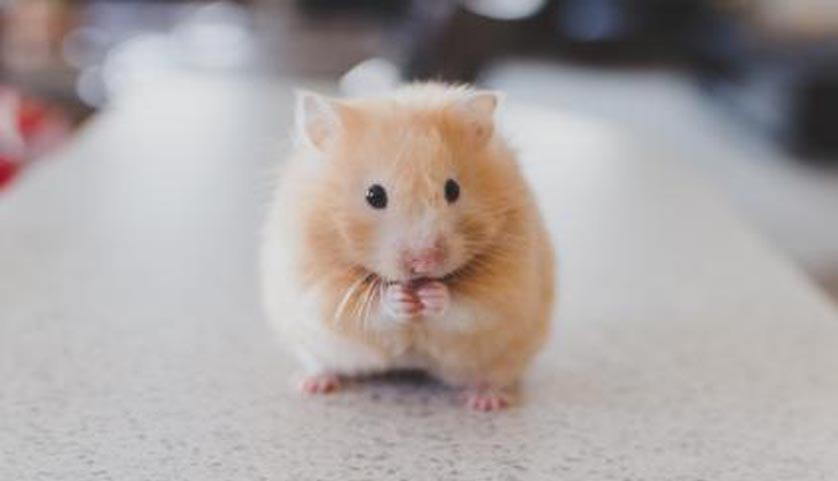
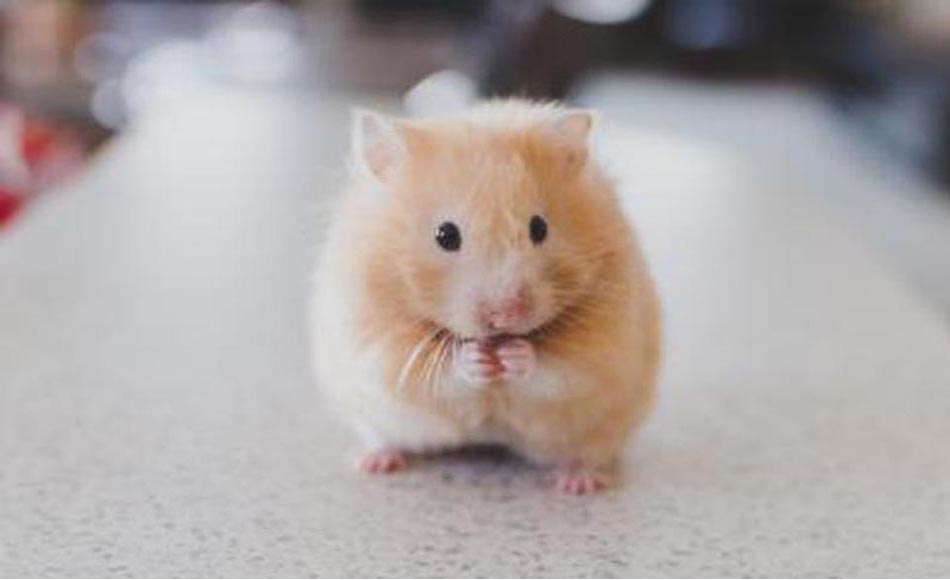
Allignment in the hero element fixed

diff --git a/html/portfolio.html b/html/portfolio.html
@@ -37,14 +37,14 @@
           </div>
           <div class="grid_4">
             <img src="../img/cat.jpg" alt="" />
-            <h1>Training 1</h1>
+            <h1>Training 2</h1>
             <p>
               Lorem ipsum dolor sit amet, consectetur adipisicing elit, sed do eiusmod tempor incididunt ut labore et dolore magna aliqua. Ut enim ad minim veniam, quis nostrud exercitation ullamco laboris nisi ut aliquip ex ea commodo consequat. Duis aute irure dolor in reprehenderit in voluptate velit esse cillum dolore eu fugiat nulla pariatur. Excepteur sint occaecat cupidatat non proident, sunt in culpa qui officia deserunt mollit anim id est laborum.
             </p>
           </div>
           <div class="grid_4">
             <img src="../img/cow.jpg" alt="" />
-            <h1>Training 1</h1>
+            <h1>Training 3</h1>
             <p>
               Lorem ipsum dolor sit amet, consectetur adipisicing elit, sed do eiusmod tempor incididunt ut labore et dolore magna aliqua. Ut enim ad minim veniam, quis nostrud exercitation ullamco laboris nisi ut aliquip ex ea commodo consequat. Duis aute irure dolor in reprehenderit in voluptate velit esse cillum dolore eu fugiat nulla pariatur. Excepteur sint occaecat cupidatat non proident, sunt in culpa qui officia deserunt mollit anim id est laborum.
             </p>
@@ -52,21 +52,21 @@
 
           <div class="grid_4">
             <img src="../img/duck.jpg" alt="" />
-            <h1>Training 1</h1>
+            <h1>Training 4</h1>
             <p>
               Lorem ipsum dolor sit amet, consectetur adipisicing elit, sed do eiusmod tempor incididunt ut labore et dolore magna aliqua. Ut enim ad minim veniam, quis nostrud exercitation ullamco laboris nisi ut aliquip ex ea commodo consequat. Duis aute irure dolor in reprehenderit in voluptate velit esse cillum dolore eu fugiat nulla pariatur. Excepteur sint occaecat cupidatat non proident, sunt in culpa qui officia deserunt mollit anim id est laborum.
             </p>
           </div>
           <div class="grid_4">
             <img src="../img/panda.jpg" alt="" />
-            <h1>Training 1</h1>
+            <h1>Training 5</h1>
             <p>
               Lorem ipsum dolor sit amet, consectetur adipisicing elit, sed do eiusmod tempor incididunt ut labore et dolore magna aliqua. Ut enim ad minim veniam, quis nostrud exercitation ullamco laboris nisi ut aliquip ex ea commodo consequat. Duis aute irure dolor in reprehenderit in voluptate velit esse cillum dolore eu fugiat nulla pariatur. Excepteur sint occaecat cupidatat non proident, sunt in culpa qui officia deserunt mollit anim id est laborum.
             </p>
           </div>
           <div class="grid_4">
             <img src="../img/parrot.jpg" alt="" />
-            <h1>Training 1</h1>
+            <h1>Training 6</h1>
             <p>
               Lorem ipsum dolor sit amet, consectetur adipisicing elit, sed do eiusmod tempor incididunt ut labore et dolore magna aliqua. Ut enim ad minim veniam, quis nostrud exercitation ullamco laboris nisi ut aliquip ex ea commodo consequat. Duis aute irure dolor in reprehenderit in voluptate velit esse cillum dolore eu fugiat nulla pariatur. Excepteur sint occaecat cupidatat non proident, sunt in culpa qui officia deserunt mollit anim id est laborum.
             </p>
@@ -78,47 +78,36 @@
             <div class="grid_4">
               <h3>Address</h3>
               <p>
-                Lorem ipsum dolor sit amet,
-              </p>
-              <p>
-                Lorem ipsum dolor sit amet,
-              </p>
-              <p>
-                Lorem ipsum dolor sit amet,
-              </p>
-              <p>
-                Lorem ipsum dolor sit amet,
+              Lorem ipsum dolor sit amet, consectetur adipisicing elit, sed do eiusmod tempor incididunt ut labore et dolore magna aliqua. Ut enim ad minim veniam, quis nostrud exercitation ullamco laboris nisi ut aliquip ex ea commodo consequat. Duis aute irure dolor in reprehenderit in voluptate velit esse cillum dolore eu fugiat nulla pariatur. Excepteur sint occaecat cupidatat non proident, sunt in culpa qui officia deserunt mollit anim id est laborum.
               </p>
             </div>
             <div class="grid_4">
               <h3>Social</h3>
               <p>
-                Lorem ipsum dolor sit amet,
+                <a href="#">Facebook</a>
               </p>
               <p>
-                Lorem ipsum dolor sit amet,
+                <a href="#">Twitter</a>
               </p>
               <p>
-                Lorem ipsum dolor sit amet,
+                <a href="#">Google+</a>
               </p>
               <p>
-                Lorem ipsum dolor sit amet,
+                <a href="#">Pintrest</a>
               </p>
             </div>
             <div class="grid_4">
               <h3>Recent Post</h3>
-              <p>
-                Lorem ipsum dolor sit amet,
-              </p>
-              <p>
-                Lorem ipsum dolor sit amet,
-              </p>
-              <p>
-                Lorem ipsum dolor sit amet,
-              </p>
-              <p>
-                Lorem ipsum dolor sit amet,
-              </p>
+              <ul>
+                <li><a href="">Lorem ipsum dolor sit amet</a></li>
+                <li><a href="">Lorem ipsum dolor sit amet</a></li>
+                <li><a href="">Lorem ipsum dolor sit amet</a></li>
+                <li><a href="">Lorem ipsum dolor sit amet</a></li>
+                <li><a href="">Lorem ipsum dolor sit amet</a></li>
+                <li><a href="">Lorem ipsum dolor sit amet</a></li>
+                <li><a href="">Lorem ipsum dolor sit amet</a></li>
+                <li><a href="">Lorem ipsum dolor sit amet</a></li>
+              </ul>
             </div>
           </div>
         </footer>

diff --git a/html/index.html b/html/index.html
@@ -54,27 +54,29 @@
         <!-- Hero element -->
         <div class="section">
 					<!-- <div class="container clearfix"> -->
-						<div class="heading-block center">
+						<div class="headingcenter">
 							<h2>Best behaviour and performance</h2>
-							<h6>Choose from a wide array of Options for your best matched Customizations</h6>
 						</div>
 						<div class="col_full">
 							  <img src="../img/hero.jpg" alt="hero" />
+                <h6>Choose from a wide array of Options for your best matched Customizations</h6>
 						</div>
           <!-- </div> -->
 				</div>
 
+
         <!-- Powerful insight and Advance store statistics -->
-        <div class="container clearfix">
+        <div class="container">
+          <!-- <div class="line"></div> -->
 
           <!-- add graph image here -->
-          <div class="grid_6">
+          <div class="grid_4">
             <div class="statistics-block">
               <img src="../img/graph.png" alt="graph" />
             </div>
           </div>
 
-          <div class="grid_6">
+          <div class="grid_8">
             <div class="statistics-block">
               <h3>Powerful insights to help grow your Pets.</h3>
               <span>Reports let you easily track and analyze your product sales, orders, and payments.</span>
@@ -87,7 +89,7 @@
           <div class="clear"></div>
           <div class="line"></div>
 
-          <div class="grid_6">
+          <div class="grid_8">
             <div class="statistics-block">
               <h3>Advanced performance statistics.</h3>
               <span>Benchmarking your website's performance helps you make great choices for your Pets.</span>
@@ -97,7 +99,7 @@
             <a href="#">Learn more →</a>
           </div>
 
-        <div class="grid_6">
+        <div class="grid_4">
           <div class="statistics-block">
             <img src="../img/piechart.png" alt="Pie Chart" />
           </div>
@@ -111,47 +113,36 @@
           <div class="grid_4">
             <h3>Address</h3>
             <p>
-              Lorem ipsum dolor sit amet,
-            </p>
-            <p>
-              Lorem ipsum dolor sit amet,
-            </p>
-            <p>
-              Lorem ipsum dolor sit amet,
-            </p>
-            <p>
-              Lorem ipsum dolor sit amet,
+            Lorem ipsum dolor sit amet, consectetur adipisicing elit, sed do eiusmod tempor incididunt ut labore et dolore magna aliqua. Ut enim ad minim veniam, quis nostrud exercitation ullamco laboris nisi ut aliquip ex ea commodo consequat. Duis aute irure dolor in reprehenderit in voluptate velit esse cillum dolore eu fugiat nulla pariatur. Excepteur sint occaecat cupidatat non proident, sunt in culpa qui officia deserunt mollit anim id est laborum.
             </p>
           </div>
           <div class="grid_4">
             <h3>Social</h3>
             <p>
-              Lorem ipsum dolor sit amet,
+              <a href="#">Facebook</a>
             </p>
             <p>
-              Lorem ipsum dolor sit amet,
+              <a href="#">Twitter</a>
             </p>
             <p>
-              Lorem ipsum dolor sit amet,
+              <a href="#">Google+</a>
             </p>
             <p>
-              Lorem ipsum dolor sit amet,
+              <a href="#">Pintrest</a>
             </p>
           </div>
           <div class="grid_4">
             <h3>Recent Post</h3>
-            <p>
-              Lorem ipsum dolor sit amet,
-            </p>
-            <p>
-              Lorem ipsum dolor sit amet,
-            </p>
-            <p>
-              Lorem ipsum dolor sit amet,
-            </p>
-            <p>
-              Lorem ipsum dolor sit amet,
-            </p>
+            <ul>
+              <li><a href="">Lorem ipsum dolor sit amet</a></li>
+              <li><a href="">Lorem ipsum dolor sit amet</a></li>
+              <li><a href="">Lorem ipsum dolor sit amet</a></li>
+              <li><a href="">Lorem ipsum dolor sit amet</a></li>
+              <li><a href="">Lorem ipsum dolor sit amet</a></li>
+              <li><a href="">Lorem ipsum dolor sit amet</a></li>
+              <li><a href="">Lorem ipsum dolor sit amet</a></li>
+              <li><a href="">Lorem ipsum dolor sit amet</a></li>
+            </ul>
           </div>
         </div>
       </footer>

diff --git a/css/styles.css b/css/styles.css
@@ -9,8 +9,6 @@ header{
 }
 header h1{
   font-size: 30px;
-  /*width: 180;
-  height: 90;*/
   text-indent: -250px;
   margin: 10px 20px;
   float: left;
@@ -45,9 +43,8 @@ body{
 }
 
 .main{
-  margin-top: 20px;
+  margin-top: 10px;
 }
-
 
 .main h1{
   margin-top: 10px;
@@ -72,43 +69,65 @@ padding-bottom: 20px;
   height: 280px;
 }
 
-.section h6, h2{
+.section img{
+  /*clear: both;*/
+  float: left;
+  margin: 10px 0px;
+}
+
+.section h2{
   text-align: center;
   text-transform: lowercase;
+  margin-bottom: 5px;
 }
 
-.container .grid_6 a{
-  text-align: right;
-  float: right;
-}
-
-.container .grid_6{
-  padding-bottom: 50px;
-}
-
-.statistics-block{
-  text-align: inherit;
-}
-.statistics-block img{
-  margin-left: 70px;
-}
-
-.heading-block center h1{
+.headingcenter h1{
   align-items: center;
+}
+
+.col_full{
+  position: relative;
+   width: 100%;
+}
+
+.col_full h6{
+  position: absolute;
+  top: 20px;
+  text-align: center;
+  color: white;
+  width: 100%;
 }
 
 .container_12{
   margin-top: 10px;
 }
 
+.container .grid_4{
+    margin: 0px,0px;
+}
+
+.statistics-block .img{
+    margin: 0px,10px;
+}
+
+.line{
+  margin-top: 20px;
+}
+
 /* =footer */
 .footer{
   clear: both;
-  height: 250px;
+  height: 260px;
   background-color: #ffffcc;
 }
 .footer .grid_4{
   margin-top: 20px;
   margin-left: 10px;
   text-align: center;
+}
+
+.footer ul{
+  text-decoration: none;
+  list-style-type: none;
+  text-align: -webkit-center;
 }
